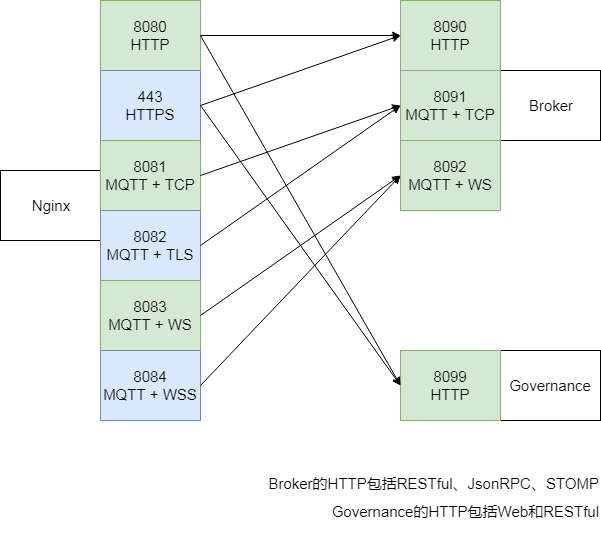
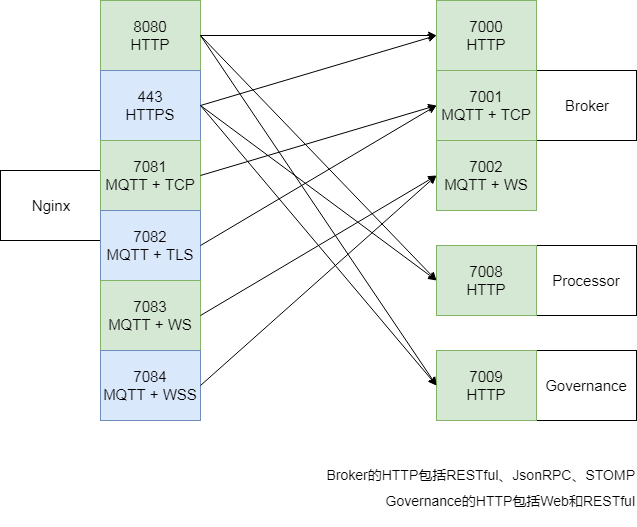
resort serive port (#84)

diff --git a/docs/install/property.md b/docs/install/property.md
@@ -9,7 +9,7 @@
 
   | 配置项                      | 默认值   | 配置说明         |
   | --------------------------- | -------- | ---------------- |
-  | server.port                 | 8090     | spring监听端口   |
+  | server.port                 | 7000     | spring监听端口   |
   | server.servlet.context-path | /weevent | spring上下文路径 |
 
 - 区块链FISCO-BCOS节点配置
@@ -52,10 +52,10 @@
   | stomp.user.login                   |               | stomp访问账号，空为不开启校验                                |
   | stomp.user.passcode                |               | stomp访问密码                                                |
   | stomp.heartbeats                   | 30            | stomp心跳间隔，单位秒                                        |
-  | mqtt.broker.port                   | 8091          | mqtt协议TCP访问端口                                          |
+  | mqtt.broker.port                   | 7001          | mqtt协议TCP访问端口，默认不开启                              |
   | mqtt.broker.keepalive              | 60            | mqtt连接空闲时间，单位秒                                     |
   | mqtt.websocket.path                | /weevent/mqtt | mqtt连接目录                                                 |
-  | mqtt.websocket.port                | 8092          | mqtt协议web socket访问端口                                   |
+  | mqtt.websocket.port                | 7002          | mqtt协议web socket访问端口，默认不开启                       |
   | mqtt.user.login                    |               | mqtt访问账号，空为不开启校验                                 |
   | mqtt.user.passcode                 |               | mqtt访问密码                                                 |
 
@@ -65,7 +65,7 @@
 
 | 配置项                                      | 默认值                                      | 配置说明               |
 | ---------------------------------------- | ---------------------------------------- | ------------------ |
-| server.port                              | 8099                                     | spring监听端口         |
+| server.port                              | 7009                                     | spring监听端口         |
 | spring.datasource.url                    | jdbc:mysql://127.0.0.1:3306/governance?useUnicode=true&characterEncoding=utf-8&useSSL=false | 数据源                |
 | spring.datasource.driver-class-name      | org.mariadb.jdbc.Driver                  | 驱动类                |
 | spring.datasource.username               | xxxx                                     | 数据库账号用户名           |
@@ -94,21 +94,21 @@
 
   ```nginx
   upstream broker_backend{
-      server localhost:8090 weight=100 max_fails=3;
+      server localhost:7000 weight=100 max_fails=3;
       
       ip_hash;
       keepalive 1024;
   }
 
   upstream broker_mqtt_websocket_backend {
-      server localhost:8092 weight=100 max_fails=3;
+      server localhost:7002 weight=100 max_fails=3;
 
       ip_hash;
       keepalive 1024;
   }
 
   upstream governance_backend{
-      server localhost:8099 weight=100 max_fails=3;
+      server localhost:7009 weight=100 max_fails=3;
       
       ip_hash;
       keepalive 1024;
@@ -134,21 +134,21 @@
   #support web/restful/jsonrpc/stomp
   http {
       include       mime.types;
-    default_type  application/octet-stream;
+      default_type  application/octet-stream;
       keepalive_timeout  65;
   
-      # custom config
+      #custom config
       server_tokens           off;
       client_body_temp_path   ./nginx_temp/client_body;
-    proxy_temp_path         ./nginx_temp/proxy;
+      proxy_temp_path         ./nginx_temp/proxy;
       fastcgi_temp_path       ./nginx_temp/fastcgi;
       uwsgi_temp_path         ./nginx_temp/uwsgi;
       scgi_temp_path          ./nginx_temp/scgi;
   
-      # http conf
-    include                 ./conf.d/http_rs.conf;
+      #http conf
+      include                 ./conf.d/http_rs.conf;
   
-      # include ./conf.d/https.conf
+      #include ./conf.d/https.conf
       include                 ./conf.d/http.conf;
   }
   
@@ -157,7 +157,7 @@
       include                 ./conf.d/tcp_rs.conf;
     
       #include ./conf.d/tcp_tls.conf
-    include                 ./conf.d/tcp.conf;
+      include                 ./conf.d/tcp.conf;
   }
   ```
   

diff --git a/docs/protocal/mqtt.md b/docs/protocal/mqtt.md
@@ -11,10 +11,10 @@
 
 ```ini
 #mqtt brokerserver
-mqtt.broker.port=8091
+mqtt.broker.port=7001
 mqtt.broker.keepalive=60
 mqtt.websocket.path=/weevent/mqtt
-mqtt.websocket.port=8092
+mqtt.websocket.port=7002
 mqtt.user.login=
 mqtt.user.passcode=
 ```
@@ -60,12 +60,12 @@ mqtt.user.passcode=
   发送消息前需创建`topic` (`com.weevent.test`)。详情请参照[创建Topic](./restful.html)
 
   ```shell
-  $ mosquitto_pub -h localhost -p 8081 -q 1 -t "com.weevent.test" -m "{\"timestamp\":133345566,\"key\":\"temperature\",\"value\":10.0}"
+  $ mosquitto_pub -h localhost -p 7081 -q 1 -t "com.weevent.test" -m "{\"timestamp\":133345566,\"key\":\"temperature\",\"value\":10.0}"
   ```
 
 - IoT设备订阅事件
 
   ```shell
-  $ mosquitto_sub -h localhost -p 8081 -q 1 -t "com.weevent.test"
+  $ mosquitto_sub -h localhost -p 7081 -q 1 -t "com.weevent.test"
   {"eventId":"317e7c4c-1-24","extensions":{},"topic":"com.weevent.test","content":[123,34,116,105,109,101,115,116,97,109,112,34,58,49,51,51,51,52,53,53,54,54,44,34,107,101,121,34,58,34,116,101,109,112,101,114,97,116,117,114,101,34,44,34,118,97,108,117,101,34,58,49,48,46,48,125]}
   ```

diff --git a/docs/install/module/nginx.md b/docs/install/module/nginx.md
@@ -60,24 +60,24 @@ $ tree
 
   ```nginx
   upstream broker_backend{
-      server 1.1.1.1:8090 weight=100 max_fails=3;
-      server 2.2.2.2:8090 weight=100 max_fails=3;
+      server 1.1.1.1:7000 weight=100 max_fails=3;
+      server 2.2.2.2:7000 weight=100 max_fails=3;
       
       ip_hash;
       keepalive 1024;
   }
   
   upstream broker_mqtt_websocket_backend {
-      server 1.1.1.1:8092 weight=100 max_fails=3;
-      server 2.2.2.2:8092 weight=100 max_fails=3;
+      server 1.1.1.1:7002 weight=100 max_fails=3;
+      server 2.2.2.2:7002 weight=100 max_fails=3;
       
   	ip_hash;
     	keepalive 1024;
   }
   
   upstream governance_backend{
-  	server 1.1.1.1:8099 weight=100 max_fails=3;
-  	server 2.2.2.2:8099 weight=100 max_fails=3;
+  	server 1.1.1.1:7009 weight=100 max_fails=3;
+  	server 2.2.2.2:7009 weight=100 max_fails=3;
       
   	ip_hash;
    	keepalive 1024;

diff --git a/docs/install/module/broker.md b/docs/install/module/broker.md
@@ -109,7 +109,7 @@ $ tree  -L 2
   
 - 配置Broker监听端口
 
-  可选配置。`./conf/application-prod.properties`中`server.port`配置项，默认监听端口`8090`，根据业务需要配置。
+  可选配置。`./conf/application-prod.properties`中`server.port`配置项，默认监听端口`7000`，根据业务需要配置。
   
 - 配置Redis缓存
 
@@ -169,13 +169,13 @@ $ tree  -L 2
 
   ```ini
   # 客户端使用MQTT协议访问MQTT Broker端口
-  mqtt.broker.port=8091
+  mqtt.broker.port=7001
   # 心跳时间 单位:秒
   mqtt.broker.keepalive=60
   # 客户端使用WebSocket协议访问MQTT Broker链接
   mqtt.websocket.path=/weevent/mqtt
   # 客户端使用WebSocket协议访问MQTT Broker端口
-  mqtt.websocket.port=8092
+  mqtt.websocket.port=7002
   # MQTT Broker访问用户名
   mqtt.user.login=
   # MQTT Broker访问密码

diff --git a/docs/advanced/port.md b/docs/advanced/port.md
@@ -18,8 +18,8 @@
 
 - MQTT协议的访问端口有别于以上协议
 
-  基于`TCP`的访问`Host`为`localhost:8081/weevent/mqtt`。
-  基于`WebSocket`的访问`URL`为`ws://localhost:8083/weevent/mqtt`。
+  基于`TCP`的访问`Host`为`localhost:7081/weevent/mqtt`。
+  基于`WebSocket`的访问`URL`为`ws://localhost:7083/weevent/mqtt`。
 
 - 由Nginx负责处理安全传输TLS
 
@@ -28,8 +28,8 @@
   |                     | 普通传输 | TLS传输 |
   | ------------------- | -------- | ------- |
   | HTTP/STOMP          | 8080     | 443     |
-  | MQTT over TCP       | 8081     | 8082    |
-  | MQTT over WebSocket | 8083     | 8084    |
+  | MQTT over TCP       | 7081     | 7082    |
+  | MQTT over WebSocket | 7083     | 7084    |
 
 - 以上说明全是指默认端口，  所有端口都支持自定义配置
 

diff --git a/docs/install/quickinstall.md b/docs/install/quickinstall.md
@@ -67,11 +67,11 @@
   nginx.port=8080
   
   # Required module
-  broker.port=8090
+  broker.port=7000
   
   # Optional module
   governance.enable=false
-  governance.governance.port=8099
+  governance.governance.port=7009
   governance.mysql.ip=127.0.0.1
   governance.mysql.port=3306
   governance.mysql.user=xxx
@@ -88,7 +88,7 @@
   
     - fisco-bcos.channel
   
-      区块链节点的`channel`访问入口。配置多个节点时用`;`分割，如`127.0.0.1:8821;127.0.0.2:8821`。
+      区块链节点的`channel`访问入口。配置多个节点时用`;`分割，如`127.0.0.1:20200;127.0.0.2:20200`。
   
     - fisco-bcos.node_path
   
@@ -116,7 +116,7 @@
   正常安装后，输出有如下关键字:
 
   ```
-  8081 port is okay
+  7081 port is okay
   8080 port is okay
   param ok
   install module broker 

diff --git a/docs/install/module/governance.md b/docs/install/module/governance.md
@@ -59,11 +59,11 @@ $ tree -L 2
 
 - 配置端口
 
-  在配置文件`./conf/application-prod.yml`中，`Governance` 的服务端口`server.port` ，默认`8099`。
+  在配置文件`./conf/application-prod.yml`中，`Governance` 的服务端口`server.port` ，默认`7009`。
 
   ```
   server:
-    port: 8099
+    port: 7009
   ```
 
 
